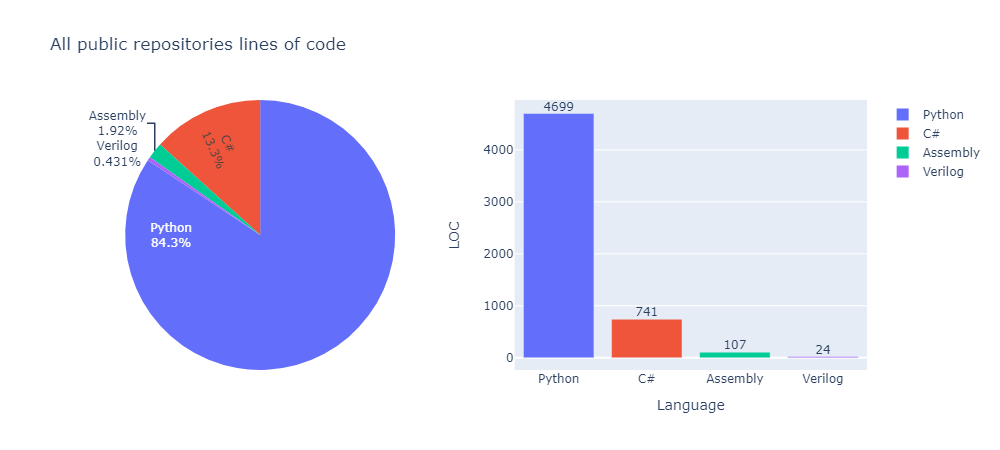
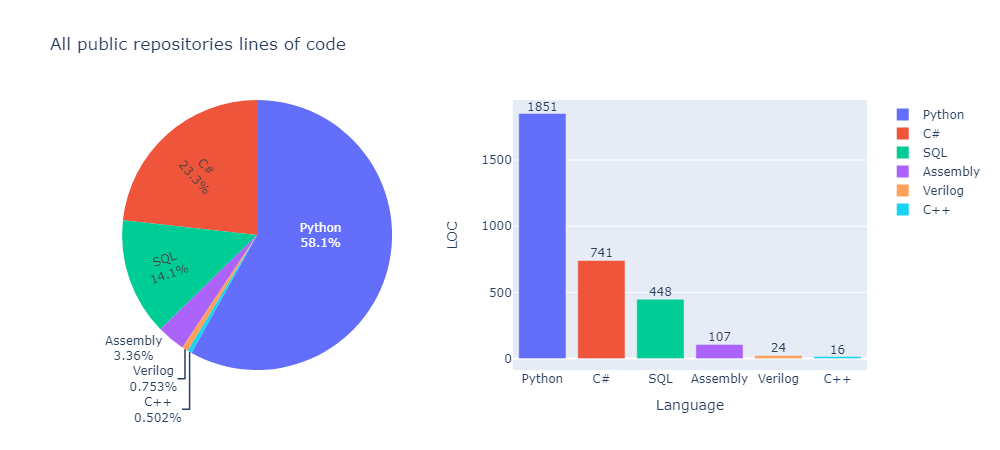
update

diff --git a/loc.py b/loc.py
@@ -10,7 +10,9 @@ from config import config
 
 
 def get_data(repo: str) -> Union[str, bool]:
-    url = f'https://api.codetabs.com/v1/loc/?github={config["username"]}/{repo}'
+    print(repo)
+    url = f'https://api.codetabs.com/v1/loc?github={config["username"]}/{repo}'
+    print(url)
     with requests.Session() as s:
         data = s.get(url)
     if data.status_code == 200:
@@ -28,12 +30,11 @@ def get_results(config: dict) -> Tuple[List[str], List[int]]:
                     results[lang] += int(element['linesOfCode'])  # NOQA
         else:
             print(f'Some error with {repo} repository. Try to restart.')
-    return list(results.keys()), list(results.values())
+    return list(results.values()), list(results.keys()),
 
 
 def get_figure(save: bool = False) -> NoReturn:
-    labels, values = get_results(config)
-
+    values, labels = zip(*sorted(zip(*get_results(config)), reverse=True))
     colors = px.colors.qualitative.Plotly
     fig = make_subplots(rows=1, cols=2,
                         specs=[[{"type": "pie"}, {"type": "bar"}]])
@@ -92,4 +93,12 @@ def get_figure(save: bool = False) -> NoReturn:
         fig.show()
 
 
-get_figure(save=True)
+# so bad internet connection
+for i in range(100):
+    print(f'Try {i}')
+    try:
+        get_figure(save=True)
+        break
+    except Exception as e:
+        print(e)
+        pass

diff --git a/config.py b/config.py
@@ -1,12 +1,19 @@
 config = {
     'username': 'shi-i-chan',
     'repos': [
-        'LOC',
-        'jp_parser',
         'kaneshi',
+        'practice',
         'diet-calculator',
-        'python_practice',
-        'some-practice',
+        'jp_parser',
+        'LOC',
+        'ping_checker',
     ],
-    'languages': ['Python', 'C#', 'Assembly', 'Verilog'],
+    'languages': [
+        'Python',
+        'SQL',
+        'C++',
+        'C#',
+        'Assembly',
+        'Verilog',
+    ],
 }
